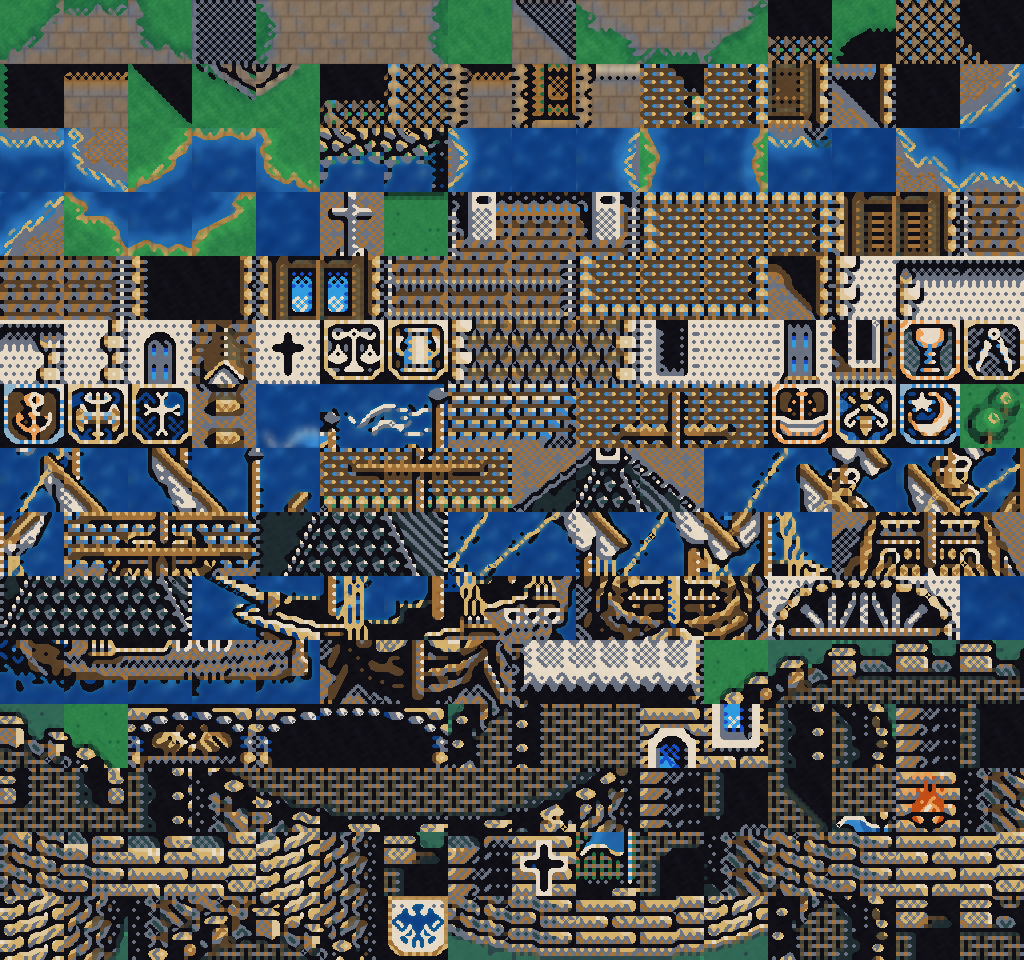
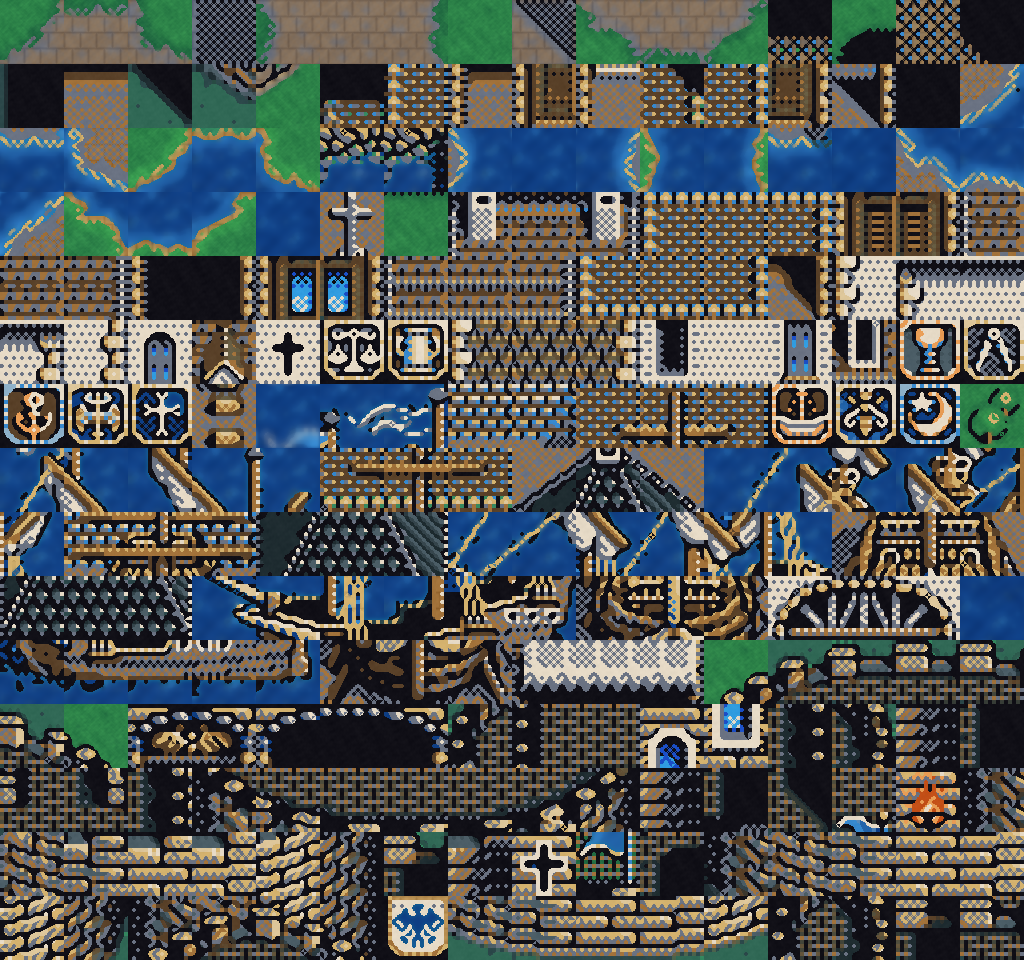
fix(hd2d,art): fix tree outer-box shadow, eliminate roof tile grid seams, and unify lower door height/palette

diff --git a/tools/build_hd_textures.py b/tools/build_hd_textures.py
@@ -10,7 +10,7 @@ import math
 import os
 from PIL import Image
 import numpy as np
-from scipy.ndimage import binary_closing, gaussian_filter, label, sobel
+from scipy.ndimage import binary_closing, binary_fill_holes, gaussian_filter, label, sobel
 
 ROOT = os.path.dirname(os.path.dirname(os.path.abspath(__file__)))
 ART_SHEETS = os.path.join(ROOT, "web", "assets", "art", "sheets")
@@ -87,13 +87,14 @@ GROUND_DITHER_PAIRS = {
     (8, 7), (7, 8),
 }
 
-# 建筑只去除大块白灰粉墙与门扇的阴影点阵，保留石砖与木门框结构
+# 建筑只去除大块白灰粉墙、蓝灰瓦顶与门扇的阴影点阵，保留石砖与木门框结构
 ARCH_DITHER_PAIRS = {
     (11, 15), (15, 11),
     (11, 7), (7, 11),
     (12, 15), (15, 12),
     (12, 7), (7, 12),
     (13, 14), (14, 13),
+    (8, 13), (13, 8),
     (10, 13), (13, 10),
     (9, 12), (12, 9),
     (0, 10), (10, 0),
@@ -345,42 +346,49 @@ def process_portchip_sheet(set_idx: int, p1: int, p2: int, p3: int, mats):
                 hull_near = sum(hull_pad[dy:dy + tile_sz, dx:dx + tile_sz] for dy in range(3) for dx in range(3))
                 is_water = water_base | (((tile_idx == 0) | (tile_idx == 8)) & (blue_sum >= 4) & (hull_near == 0))
 
-            is_tree_tile = (t_id >= p2) and (int(np.sum(tile_idx == 14)) >= 70) and not np.any(is_water)
+            is_arch_walk = (t_id >= 16) and (t_id < p2) and (int(np.sum(tile_idx == 0)) >= 25) and not np.any(is_water)
+            is_walk = (t_id < p2) and not is_arch_walk
+            is_tree_tile = (t_id >= p2) and (int(np.sum((tile_idx == 13) | (tile_idx == 14))) >= 120) and not np.any(is_water) and (int(np.sum(tile_idx == 0)) >= 8)
             is_shore_tile = (t_id >= p2) and np.any(is_water) and (int(np.sum((tile_idx == 13) | (tile_idx == 14))) >= 18)
+
             sem[is_water] = 1
-            if t_id < p2:
+            if is_walk:
                 is_grass = (tile_idx == 13) | (tile_idx == 14)
                 is_sand = ((tile_idx == 10) | (tile_idx == 11) | (tile_idx == 15) | (tile_idx == 8)) & ~is_water & ~is_grass
                 sem[is_sand] = 2
                 sem[is_grass] = 3
+            elif is_tree_tile:
+                # 仅把与图块外缘草坪 (13/14) 不连通的内部树冠与树干保留为遮挡实体，外围草地归入草坪 sem=3
+                grass_mask = (tile_idx == 13) | (tile_idx == 14)
+                lbl_g, _ = label(grass_mask, structure=np.array([[0, 1, 0], [1, 1, 1], [0, 1, 0]], dtype=np.int32))
+                border_ids = set(lbl_g[0, :].tolist()) | set(lbl_g[-1, :].tolist()) | set(lbl_g[:, 0].tolist()) | set(lbl_g[:, -1].tolist())
+                border_ids.discard(0)
+                outer_grass = np.isin(lbl_g, list(border_ids))
+                sem[outer_grass] = 3
             else:
                 if np.any(is_water):
                     sem[((tile_idx == 13) | (tile_idx == 14)) & ~is_water] = 3
                     blk_pad = np.pad((tile_idx == 0).astype(np.int32), ((1, 1), (1, 1)), mode="edge")
                     blk_near = sum(blk_pad[dy:dy + tile_sz, dx:dx + tile_sz] for dy in range(3) for dx in range(3))
                     sem[((tile_idx == 10) | (tile_idx == 11)) & (blk_near == 0) & ~is_water] = 2
-                elif is_tree_tile:
-                    blk_pad = np.pad((tile_idx == 0).astype(np.int32), ((1, 1), (1, 1)), mode="edge")
-                    blk_near = sum(blk_pad[dy:dy + tile_sz, dx:dx + tile_sz] for dy in range(3) for dx in range(3))
-                    sem[(tile_idx == 14) & (blk_near == 0)] = 3
             sem[tile_idx == 0] = 0
             sem[is_water] = 1
 
-            # 1) Albedo: 地面、海岸草坡与树格使用草地色盘，其余实体建筑使用建筑色盘（含压沉的门扇阴影 13）
-            pairs = GROUND_DITHER_PAIRS if (is_walk or is_shore_tile) else ARCH_DITHER_PAIRS
+            # 1) Albedo: 地面、海岸草坡与树格使用草地色盘，其余实体建筑使用建筑色盘（含门下半格 22/23）
+            pairs = GROUND_DITHER_PAIRS if (is_walk or is_shore_tile or is_tree_tile) else ARCH_DITHER_PAIRS
             tile_pal = MODERN_GROUND_PAL if (is_walk or is_tree_tile or is_shore_tile) else MODERN_ARCH_PAL
-            base_16 = dedither_tile_rgb(tile_idx, tile_pal, pairs, is_water=is_water, wrap_edges=(t_id < p1))
+            base_16 = dedither_tile_rgb(tile_idx, tile_pal, pairs, is_water=is_water, wrap_edges=(is_walk and t_id < p1))
             if pure_water_ripple_tile:
                 # 153 等水上影波纹格：只保留柔和深暗水波层次，不生成刺眼黑刺团块
                 dark_ripple = (tile_idx == 0) | (tile_idx == 8)
                 base_16[dark_ripple] = MODERN_GROUND_PAL[9] * 0.72 + np.array([4.0, 12.0, 28.0], dtype=np.float32)
-            if t_id < p2 or np.any(is_water):
+            if is_walk or np.any(is_water) or is_tree_tile:
                 smooth_16 = base_16.copy()
                 for m_val, alpha, sig in ((1, 0.88, 0.95), (2, 0.85, 0.85), (3, 0.78, 0.78)):
                     m = (sem == m_val).astype(np.float32)
                     if np.sum(m) < 4:
                         continue
-                    mode = "wrap" if t_id < p1 else "nearest"
+                    mode = "wrap" if (is_walk and t_id < p1) else "nearest"
                     denom = np.maximum(1e-4, gaussian_filter(m, sigma=sig, mode=mode))
                     for ch in range(3):
                         num = gaussian_filter(base_16[:, :, ch] * m, sigma=sig, mode=mode)
@@ -399,7 +407,7 @@ def process_portchip_sheet(set_idx: int, p1: int, p2: int, p3: int, mats):
                 m = (sem64 == m_val).astype(np.float32)
                 if np.sum(m) < 16:
                     continue
-                mode = "wrap" if (t_id < p1 or m_val == 1) else "nearest"
+                mode = "wrap" if ((is_walk and t_id < p1) or m_val == 1) else "nearest"
                 denom = np.maximum(1e-4, gaussian_filter(m, sigma=sigma, mode=mode))
                 for ch in range(3):
                     num = gaussian_filter(up64[:, :, ch] * m, sigma=sigma, mode=mode)
@@ -441,18 +449,28 @@ def process_portchip_sheet(set_idx: int, p1: int, p2: int, p3: int, mats):
             )
             micro_height = gaussian_filter(micro_height, sigma=0.75, mode="nearest")
 
-            # 物理高程：地上行走层 (~0.00)，纯水波纹 (~0.00)，半阻挡石栏 (~0.32)，实心建筑/树冠/船体 (~0.82)
-            # 对实心建筑做 3x3 闭运算填平砖缝微小孔洞，保证投射出的建筑影子浑然一体不碎裂
-            if t_id < p1 or pure_water_ripple_tile:
+            # 物理高程：地上行走层 (~0.00)，纯水波纹 (~0.00)，半阻挡石栏 (~0.32)，实心建筑/门框/树冠/船体 (~0.85)
+            # 闭运算前必须 edge 外扩，防止边缘被 scipy 默认清零而让屋顶/墙砖产生黑线格子！
+            def edge_close(mask_bool: np.ndarray, k: int) -> np.ndarray:
+                p = np.pad(mask_bool, ((k, k), (k, k)), mode="edge")
+                c = binary_closing(p, structure=np.ones((k * 2 - 1, k * 2 - 1), dtype=bool))
+                return c[k:-k, k:-k]
+
+            if (is_walk and not is_arch_walk) or pure_water_ripple_tile:
                 tile_elev = np.zeros_like(micro_height)
-            elif t_id < p2:
-                solid_m = binary_closing((sem64 == 4) | (sem64 == 0), structure=np.ones((5, 5), dtype=bool))
-                tile_elev = gaussian_filter(np.where(solid_m & (sem64 != 1), 0.34, 0.0).astype(np.float32), sigma=1.4, mode="nearest")
+            elif is_tree_tile:
+                # 仅树木剪影内部填洞隆起（绝不到图块方框边！）
+                tree_raw = (sem64 == 4) | (sem64 == 0)
+                tree_filled = binary_fill_holes(tree_raw) | tree_raw
+                tile_elev = gaussian_filter(np.where(tree_filled, 0.72, 0.0).astype(np.float32), sigma=1.4, mode="nearest")
+            elif t_id < p2 and not is_arch_walk:
+                solid_m = edge_close((sem64 == 4) | (sem64 == 0), 4) & (sem64 != 1)
+                tile_elev = gaussian_filter(np.where(solid_m, 0.34, 0.0).astype(np.float32), sigma=1.4, mode="nearest")
             else:
                 caster_raw = (sem64 == 4) | (sem64 == 0)
-                solid_m = binary_closing(caster_raw, structure=np.ones((7, 7), dtype=bool)) & (sem64 != 1)
+                solid_m = edge_close(caster_raw, 4) & (sem64 != 1)
                 base_e = np.where(solid_m, 0.85, 0.0)
-                tile_elev = gaussian_filter(base_e.astype(np.float32), sigma=1.6, mode="nearest")
+                tile_elev = gaussian_filter(base_e.astype(np.float32), sigma=1.4, mode="nearest")
 
             nrm_tile = height_to_normal_rgba(micro_height, tile_elev, strength=3.4)
 
